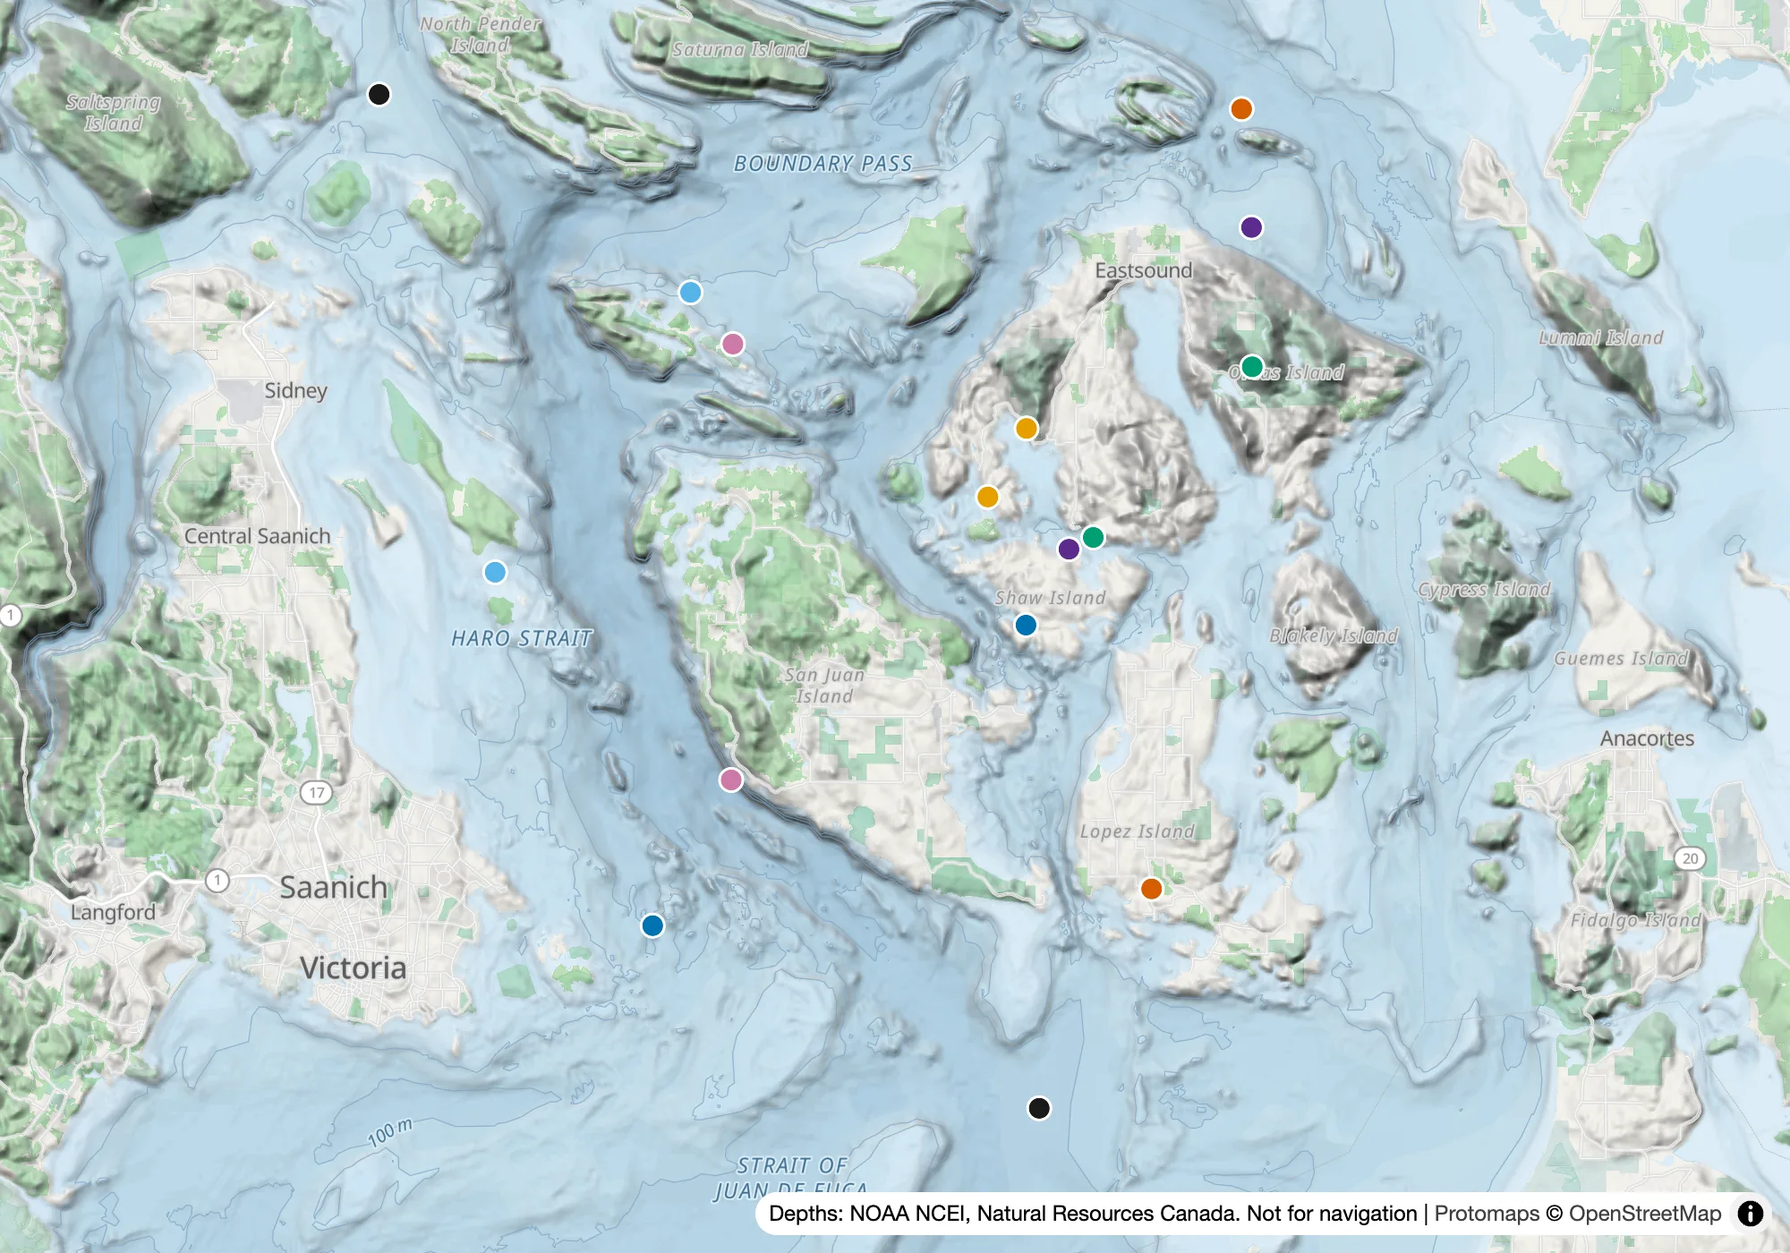
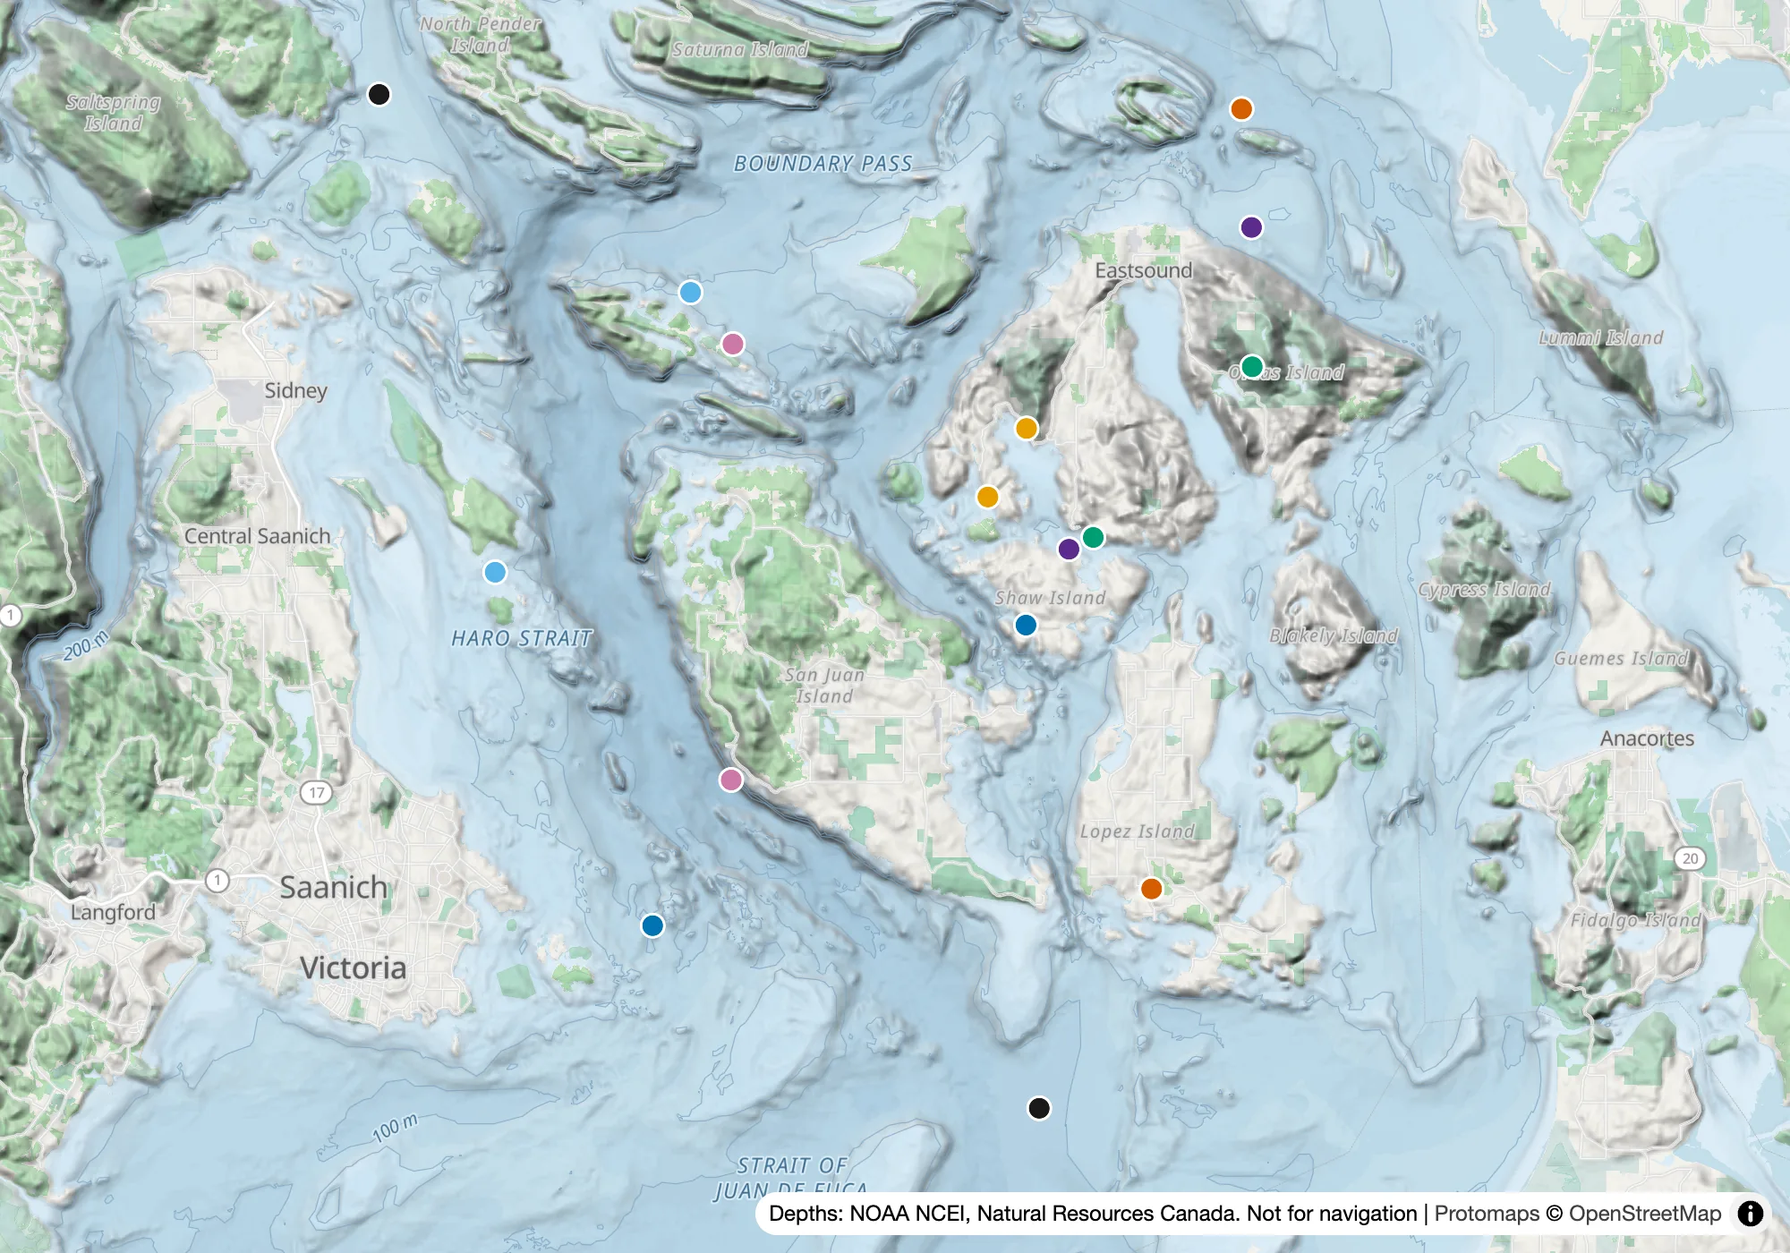
Canada's depth grid wherever it has data; relief shaded by MapLibre only
Peter's choices of 2026-10-13, recorded by amending SalishSea.io's decision
073. NOAA's grid goes in first and NRCan's over it. gdalwarp now runs with
-novshift: without it, NOAA's grid warped on its own came out about 20 m
deeper, converted from EGM2008 to ellipsoidal heights. The baked shading,
its archive and the script's shade mode are gone; the script now writes
elevation tiles only. Screenshots retaken from the rebuilt window.

diff --git a/style/style.ts b/style/style.ts
@@ -9,13 +9,11 @@
 import { layers, namedFlavor, type Flavor } from '@protomaps/basemaps';
 import type { LayerSpecification, StyleSpecification } from 'maplibre-gl';
 
-/** How the seafloor and land are shaded. */
-export type Relief = 'baked' | 'live' | 'none';
-
 export interface Options {
   /** Where the archives are, ending in a slash, e.g. `https://tiles.salishsea.io/v1/`. */
   base: string;
-  relief: Relief;
+  /** Whether to shade the seafloor and land. MapLibre shades them from elevation tiles. */
+  relief?: boolean;
   /** How much of the relief shows, 0 to 1. Decision 073 starts at about a half. */
   reliefStrength?: number;
 }
@@ -100,33 +98,21 @@ function depthLayers(): { bands: LayerSpecification[]; isobaths: LayerSpecificat
   };
 }
 
-function reliefLayers(relief: Relief, strength: number): LayerSpecification[] {
-  if (relief === 'baked') {
-    return [{
-      id: 'relief', type: 'raster', source: 'shade',
-      paint: {
-        'raster-opacity': ['interpolate', ['linear'], ['zoom'], 11.5, strength, 13, 0] as never,
-        'raster-fade-duration': 0,
-      },
-    }];
-  }
-  if (relief === 'live') {
-    return [{
-      id: 'relief', type: 'hillshade', source: 'elevation',
-      paint: {
-        'hillshade-method': 'standard',
-        // Fades out with the baked relief: past z12 the 30 m grid is only being interpolated.
-        'hillshade-exaggeration': ['interpolate', ['linear'], ['zoom'], 11.5, strength, 13, 0] as never,
-        'hillshade-shadow-color': '#000000',
-        'hillshade-highlight-color': '#ffffff',
-        'hillshade-accent-color': '#000000',
-      },
-    }];
-  }
-  return [];
+function reliefLayers(strength: number): LayerSpecification[] {
+  return [{
+    id: 'relief', type: 'hillshade', source: 'elevation',
+    paint: {
+      'hillshade-method': 'standard',
+      // Fades out from z11.5 to z13: past z12 the 30 m grid is only being interpolated.
+      'hillshade-exaggeration': ['interpolate', ['linear'], ['zoom'], 11.5, strength, 13, 0] as never,
+      'hillshade-shadow-color': '#000000',
+      'hillshade-highlight-color': '#ffffff',
+      'hillshade-accent-color': '#000000',
+    },
+  }];
 }
 
-export function basemapStyle({ base, relief, reliefStrength = 0.5 }: Options): StyleSpecification {
+export function basemapStyle({ base, relief = true, reliefStrength = 0.5 }: Options): StyleSpecification {
   // `lang` adds the label layers; Protomaps' type definitions leave it out.
   const protomaps = layers('protomaps', flavor, { lang: 'en' } as { labelsOnly?: boolean }) as LayerSpecification[];
   const depth = depthLayers();
@@ -140,7 +126,7 @@ export function basemapStyle({ base, relief, reliefStrength = 0.5 }: Options): S
       } as LayerSpecification);
       continue;
     }
-    if (layer.id === 'roads_tunnels_other_casing') out.push(...reliefLayers(relief, reliefStrength), ...depth.isobaths);
+    if (layer.id === 'roads_tunnels_other_casing') out.push(...(relief ? reliefLayers(reliefStrength) : []), ...depth.isobaths);
     if (layer.id === 'water_label_ocean') out.push(...depth.labels);
     out.push(layer);
   }
@@ -155,8 +141,7 @@ export function basemapStyle({ base, relief, reliefStrength = 0.5 }: Options): S
       attribution: 'Depths: NOAA NCEI, Natural Resources Canada. Not for navigation',
     },
   };
-  if (relief === 'baked') sources.shade = { type: 'raster', url: `pmtiles://${base}shade.pmtiles`, tileSize: 512 };
-  if (relief === 'live') sources.elevation = { type: 'raster-dem', url: `pmtiles://${base}elevation.pmtiles`, tileSize: 512, encoding: 'terrarium' };
+  if (relief) sources.elevation = { type: 'raster-dem', url: `pmtiles://${base}elevation.pmtiles`, tileSize: 512, encoding: 'terrarium' };
 
   return {
     version: 8,

diff --git a/viewer/main.ts b/viewer/main.ts
@@ -1,27 +1,26 @@
 // Two maps side by side, moving together, each drawing one version of the basemap.
-// The URL holds the view (`#zoom/lat/lon`) and the choices (`?left=baked&right=esri`),
+// The URL holds the view (`#zoom/lat/lon`) and the choices (`?left=ours&right=esri`),
 // so a view can be shared or screenshotted.
 
 import { addProtocol, Map, setWorkerUrl, type StyleSpecification } from 'maplibre-gl';
 import maplibreWorker from 'maplibre-gl/dist/maplibre-gl-worker.mjs?url';
 import 'maplibre-gl/dist/maplibre-gl.css';
 import { Protocol } from 'pmtiles';
-import { basemapStyle, type Relief } from '../style/style.ts';
+import { basemapStyle } from '../style/style.ts';
 
 setWorkerUrl(maplibreWorker);
 addProtocol('pmtiles', new Protocol().tile);
 
 const VARIANTS = {
-  baked: 'Ours: baked relief',
-  live: 'Ours: relief shaded in the browser',
-  none: 'Ours: no relief',
+  ours: 'Ours',
+  flat: 'Ours, without relief',
   esri: 'Esri ocean (today)',
 } as const;
 type Variant = keyof typeof VARIANTS;
 
 const params = new URLSearchParams(location.search);
 const base = new URL(params.get('base') ?? '/window/', location.href).href;
-// Relief opacity and hillshade exaggeration both run from 0 to 1 in MapLibre's style spec.
+// Hillshade exaggeration runs from 0 to 1 in MapLibre's style spec.
 const requested = Number(params.get('strength') ?? 0.5);
 let strength = Number.isFinite(requested) ? Math.min(1, Math.max(0, requested)) : 0.5;
 
@@ -65,7 +64,7 @@ function esriStyle(): StyleSpecification {
 }
 
 function styleFor(variant: Variant): StyleSpecification {
-  return variant === 'esri' ? esriStyle() : basemapStyle({ base, relief: variant as Relief, reliefStrength: strength });
+  return variant === 'esri' ? esriStyle() : basemapStyle({ base, relief: variant === 'ours', reliefStrength: strength });
 }
 
 function addSightings(map: Map) {
@@ -102,7 +101,7 @@ function variantParam(key: string, fallback: Variant): Variant {
   return value !== null && value in VARIANTS ? (value as Variant) : fallback;
 }
 
-const left = pane('left', variantParam('left', 'baked'), true);
+const left = pane('left', variantParam('left', 'ours'), true);
 const right = pane('right', variantParam('right', 'esri'), false);
 
 // Move together: whichever map the person is moving leads.

diff --git a/scripts/elevation_tiles.py b/scripts/elevation_tiles.py
@@ -2,20 +2,14 @@
 # requires-python = ">=3.12"
 # dependencies = ["rasterio>=1.4", "numpy>=2", "pillow>=11", "pmtiles>=3.4", "mercantile>=1.2"]
 # ///
-"""Cut an elevation grid into a PMTiles archive of 512-pixel WebP tiles.
+"""Cut an elevation grid into a PMTiles archive of 512-pixel elevation tiles.
 
-Two kinds of archive, from the same grid:
+Elevations are encoded in red, green and blue (Mapzen's Terrarium encoding) and saved
+as lossless WebP. MapLibre shades the relief from these itself, with a `hillshade`
+layer (decision 073), and could colour depth from them too (`color-relief`).
 
-  terrarium  Elevations encoded in red, green and blue (Mapzen's Terrarium encoding),
-             lossless. MapLibre shades these itself (a `hillshade` layer) and can
-             colour depth from them (`color-relief`).
-  shade      Shading computed here and baked in: black where the slope faces away from
-             the light, white where it faces it, transparent where it is flat. Drawn
-             full strength; the style sets how much of it shows (decision 073).
-
-Every zoom level is resampled from the grid itself, not from the level above, so the
-shading at a low zoom is computed from a smoothed surface rather than averaged from
-sharper shading.
+Every zoom level is resampled from the grid itself, not from the level above, so a low
+zoom holds a smoothed surface rather than an average of sharper tiles.
 """
 
 import argparse
@@ -34,7 +28,6 @@ from rasterio.enums import Resampling
 from rasterio.vrt import WarpedVRT
 
 TILE = 512
-BUFFER = 2  # pixels read beyond each edge, so shading has neighbours at the seams
 
 _src: rasterio.DatasetReader | None = None
 _native: float = 0.0
@@ -50,20 +43,18 @@ def _init(path: str, args: argparse.Namespace) -> None:
     _native = abs(_src.transform.a) * 111320 / math.cos(math.radians(lat))
 
 
-def _read(tile: mercantile.Tile) -> tuple[np.ndarray, float]:
-    """The tile's elevations, BUFFER pixels wider on each side, and the pixel size in metres."""
+def _read(tile: mercantile.Tile) -> np.ndarray:
+    """The tile's elevations, NaN where the grid has none."""
     b = mercantile.xy_bounds(tile)
     res = (b.right - b.left) / TILE
-    left, top = b.left - BUFFER * res, b.top + BUFFER * res
-    size = TILE + 2 * BUFFER
     # Average down to zooms coarser than the grid; between its pixels, interpolate.
     resampling = Resampling.average if res > _native * 1.5 else Resampling.bilinear
     with WarpedVRT(
-        _src, crs="EPSG:3857", transform=Affine(res, 0, left, 0, -res, top),
-        width=size, height=size, resampling=resampling,
+        _src, crs="EPSG:3857", transform=Affine(res, 0, b.left, 0, -res, b.top),
+        width=TILE, height=TILE, resampling=resampling,
     ) as vrt:
         data = vrt.read(1, masked=True)
-    return np.ma.filled(data.astype("float32"), np.nan), res
+    return np.ma.filled(data.astype("float32"), np.nan)
 
 
 def _terrarium(elev: np.ndarray, precision: float) -> Image.Image:
@@ -78,54 +69,25 @@ def _terrarium(elev: np.ndarray, precision: float) -> Image.Image:
     return Image.fromarray(rgb, "RGB")
 
 
-def _shade(elev: np.ndarray, res: float, lat: float, exaggeration: float) -> Image.Image:
-    # Web Mercator stretches distances by 1/cos(latitude); undo that so slopes are true.
-    ground = res * math.cos(math.radians(lat))
-    z = np.nan_to_num(elev, nan=0.0) * exaggeration
-    dzdy, dzdx = np.gradient(z, ground)  # rows run north to south
-    slope = np.arctan(np.hypot(dzdx, dzdy))
-    aspect = np.arctan2(-dzdx, dzdy)  # compass bearing the slope faces (downhill)
-    azimuth, altitude = math.radians(315.0), math.radians(45.0)
-    lit = (math.sin(altitude) * np.cos(slope)
-           + math.cos(altitude) * np.sin(slope) * np.cos(azimuth - aspect))
-    flat = math.sin(altitude)
-    shadow = np.clip((flat - lit) / flat, 0, 1)
-    highlight = np.clip((lit - flat) / (1 - flat), 0, 1)
-    tone = np.where(lit < flat, 0, 255).astype("uint8")
-    alpha = (np.maximum(shadow, highlight) * 255).astype("uint8")
-    alpha[np.isnan(elev)] = 0
-    rgba = np.stack([tone, tone, tone, alpha], axis=-1)
-    return Image.fromarray(rgba, "RGBA")
-
-
 def _render(t: tuple[int, int, int]) -> tuple[int, bytes | None]:
     tile = mercantile.Tile(t[1], t[2], t[0])
     tile_id = zxy_to_tileid(tile.z, tile.x, tile.y)
-    elev, res = _read(tile)
-    inner = elev[BUFFER:-BUFFER, BUFFER:-BUFFER]
-    if np.isnan(inner).all():
+    elev = _read(tile)
+    if np.isnan(elev).all():
         return tile_id, None
     buf = io.BytesIO()
-    if _args.kind == "terrarium":
-        _terrarium(inner, _args.precision).save(buf, "WEBP", lossless=True, method=4)
-    else:
-        lat = mercantile.ul(tile.x, tile.y + 0.5, tile.z).lat
-        img = _shade(elev, res, lat, _args.exaggeration)
-        img.crop((BUFFER, BUFFER, BUFFER + TILE, BUFFER + TILE)).save(buf, "WEBP", quality=_args.quality, method=4)
+    _terrarium(elev, _args.precision).save(buf, "WEBP", lossless=True, method=4)
     return tile_id, buf.getvalue()
 
 
 def main() -> None:
     p = argparse.ArgumentParser(description=__doc__, formatter_class=argparse.RawDescriptionHelpFormatter)
-    p.add_argument("kind", choices=["terrarium", "shade"])
     p.add_argument("source", help="elevation grid in metres, negative below sea level")
     p.add_argument("output", help="PMTiles archive to write")
     p.add_argument("--bbox", required=True, help="west,south,east,north in degrees")
     p.add_argument("--minzoom", type=int, default=0)
     p.add_argument("--maxzoom", type=int, required=True)
-    p.add_argument("--exaggeration", type=float, default=3.0, help="vertical exaggeration for shading")
     p.add_argument("--precision", type=float, default=0.25, help="metres to round elevations to")
-    p.add_argument("--quality", type=int, default=80, help="WebP quality for shading")
     args = p.parse_args()
 
     west, south, east, north = map(float, args.bbox.split(","))
@@ -155,8 +117,8 @@ def main() -> None:
                 "center_lat_e7": int((south + north) / 2 * 1e7),
             },
             {
-                "name": f"salish-sea-{args.kind}",
-                "encoding": "terrarium" if args.kind == "terrarium" else None,
+                "name": "salish-sea-elevation",
+                "encoding": "terrarium",
                 "tileSize": TILE,
                 "attribution": "NOAA NCEI; Natural Resources Canada",
             },

diff --git a/README.md b/README.md
@@ -2,7 +2,7 @@
 
 A basemap of the Northeast Pacific coast, from Monterey Bay to Haida Gwaii, built from open data for [SalishSea.io](https://salishsea.io) and [Orcasound](https://live.orcasound.net). It keeps showing depth and shoreline at the zooms where Esri's ocean tiles go blank, and it is drawn so that the coloured dots of whale sightings stay the most visible thing on the map.
 
-**Status: first build, over a test window around Haro Strait (124.0–122.2°W, 48.0–49.2°N).** Nothing serves it yet. Two ways of drawing the relief are being compared: shading baked into image tiles, and shading computed by MapLibre from elevation tiles.
+**Status: first build, over a test window around Haro Strait (124.0–122.2°W, 48.0–49.2°N).** Nothing serves it yet.
 
 ![The San Juan Islands and Haro Strait at MapLibre zoom 9.4: depth tinted darker with depth, the seafloor and land lightly shaded, and coloured dots over the water.](docs/images/overview.webp)
 
@@ -26,10 +26,12 @@ They will be served from `tiles.salishsea.io`, each build under its own versione
 | Layer | Source | Terms |
 |---|---|---|
 | Land, roads, places, water outlines | [Protomaps](https://protomaps.com) daily build of OpenStreetMap | ODbL |
-| Depths south of 49°N | NOAA [Coastal Relief Model](https://www.ncei.noaa.gov/products/coastal-relief-model), 1 arc-second (about 30 m) | Public domain |
-| Depths north of 49°N | Natural Resources Canada's [West Coast topo-bathymetric DEM](https://open.canada.ca/data/dataset/e6e11b99-f0cc-44f7-f5eb-3b995fb1637e), resampled from 10 m to 30 m | Open Government Licence – Canada |
+| Depths and relief wherever Canada's grid has data, which is everywhere north of about 47.4°N, Puget Sound included | Natural Resources Canada's [West Coast topo-bathymetric DEM](https://open.canada.ca/data/dataset/e6e11b99-f0cc-44f7-f5eb-3b995fb1637e), resampled from 10 m to 30 m | Open Government Licence – Canada |
+| Depths and relief everywhere else | NOAA's [Coastal Relief Model](https://www.ncei.noaa.gov/products/coastal-relief-model), 1 arc-second (about 30 m) | Public domain |
 
-Why one 30 m grid, and why not the Canadian Hydrographic Service's own depths, is in SalishSea.io's decision [073](https://github.com/salish-sea/salishsea-io/blob/main/docs/decisions/073-the-basemap-depths-are-30-m-lightly-shaded.md). Why the basemap is its own project is in [074](https://github.com/salish-sea/salishsea-io/blob/main/docs/decisions/074-the-basemap-is-its-own-project-and-the-cards-draw-on-it.md). Decisions made from here on are recorded in [decisions/](decisions/).
+Canada's grid is preferred because NOAA's shows straight seams where its survey patches meet, in the Strait of Georgia and Haro Strait. The two grids measure height from different levels. NOAA's are heights above EGM2008, which is close to mean sea level. Canada's are measured from the Canadian Hydrographic Service's chart datum, a low-water level, so in the Salish Sea its depths read 1–2 m shallower than NOAA's. Each is kept as published. The coastline comes from OpenStreetMap, so the difference only moves the shallowest isobaths a little where the grids meet.
+
+Why one 30 m grid, why Canada's grid comes first, why the relief is shaded in the browser, and why not the Canadian Hydrographic Service's own depths, is in SalishSea.io's decision [073](https://github.com/salish-sea/salishsea-io/blob/main/docs/decisions/073-the-basemap-depths-are-30-m-lightly-shaded.md). Why the basemap is its own project is in [074](https://github.com/salish-sea/salishsea-io/blob/main/docs/decisions/074-the-basemap-is-its-own-project-and-the-cards-draw-on-it.md). Decisions made from here on are recorded in [decisions/](decisions/).
 
 Anything derived from OpenStreetMap is kept in its own archive, so that the ODbL's share-alike terms don't reach the public-domain and Canadian data. The map is not for navigation.
 
@@ -38,11 +40,7 @@ Anything derived from OpenStreetMap is kept in its own archive, so that the ODbL
 Depth is drawn in two ways, both cut from the same elevation grid:
 
 - **Depth bands and isobaths** are vector polygons and lines, darker where deeper. Isobaths carry their depth as a label.
-- **Relief**, the light and shadow of the seafloor and land, sits above the land and the bands but under roads and labels, and fades out before it would blur. It is either baked into translucent image tiles (`shade.pmtiles`), or computed by MapLibre's `hillshade` layer from elevation tiles in Mapzen's Terrarium encoding (`elevation.pmtiles`), so it can be restyled without a rebuild. [scripts/raster_tiles.py](scripts/raster_tiles.py) writes both.
-
-![The seafloor of Haro Strait off San Juan Island at MapLibre zoom 11, drawn twice: on the left with crisper baked shading, on the right with softer shading drawn by MapLibre.](docs/images/relief.webp)
-
-*Haro Strait at MapLibre zoom 11, both at half strength. Left: relief baked into image tiles. Right: relief shaded by MapLibre from elevation tiles.*
+- **Relief**, the light and shadow of the seafloor and land, sits above the land and the bands but under roads and labels, and fades out before it would blur. MapLibre shades it with a `hillshade` layer, from elevation tiles in Mapzen's Terrarium encoding (`elevation.pmtiles`, written by [scripts/elevation_tiles.py](scripts/elevation_tiles.py)), so it can be restyled without a rebuild. Shading baked into image tiles was tried too. It was a little crisper, but its archive was five times the size and every change of style needed a rebuild.
 
 ## Building
 
@@ -54,7 +52,7 @@ make window      # every archive for the test window, in build/window/
 make serve       # a page that compares versions of our map, and Esri's, side by side
 ```
 
-The comparison page keeps its view and choices in the URL, so a view can be shared or screenshotted. The pictures above are, with the controls hidden, `?left=live#9.4/48.56/-123.05`, `?left=live#14/48.5157/-123.145` and `?left=baked&right=live#11/48.45/-123.15`.
+The comparison page keeps its view and choices in the URL, so a view can be shared or screenshotted. The pictures above are, with the controls hidden, `#9.4/48.56/-123.05` and `#14/48.5157/-123.145`.
 
 ## Licence
 

diff --git a/decisions/README.md b/decisions/README.md
@@ -5,5 +5,5 @@ Numbered records of decisions about the basemap: what it is built from, how it i
 The decisions that started this project were made in SalishSea.io and stay there:
 
 - [068](https://github.com/salish-sea/salishsea-io/blob/main/docs/decisions/068-the-map-stays-on-openlayers.md): SalishSea.io builds its own basemap. (Its choice of OpenLayers is superseded by [076](https://github.com/salish-sea/salishsea-io/blob/main/docs/decisions/076-the-map-moves-to-maplibre.md): the map is drawn by MapLibre GL.)
-- [073](https://github.com/salish-sea/salishsea-io/blob/main/docs/decisions/073-the-basemap-depths-are-30-m-lightly-shaded.md): one 30 m depth grid for the whole range, shaded lightly.
+- [073](https://github.com/salish-sea/salishsea-io/blob/main/docs/decisions/073-the-basemap-depths-are-30-m-lightly-shaded.md): one 30 m depth grid for the whole range, Canada's wherever it has data and NOAA's elsewhere, shaded lightly by MapLibre (amended 2026-10-13).
 - [074](https://github.com/salish-sea/salishsea-io/blob/main/docs/decisions/074-the-basemap-is-its-own-project-and-the-cards-draw-on-it.md): the basemap is this repository, served from tiles.salishsea.io as vector and image tiles.
